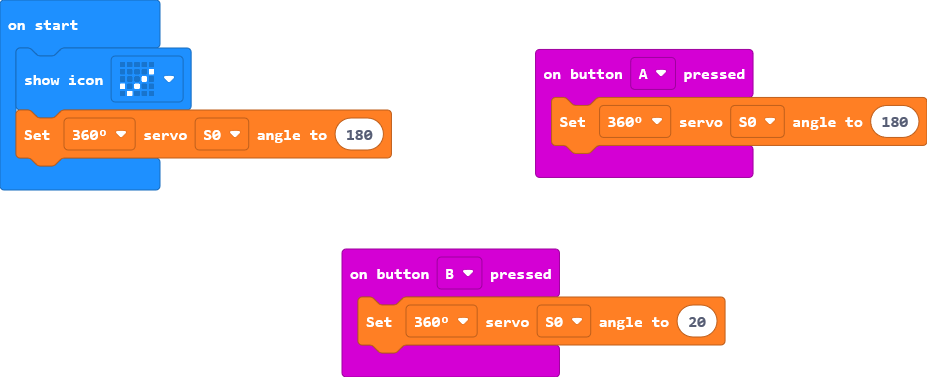
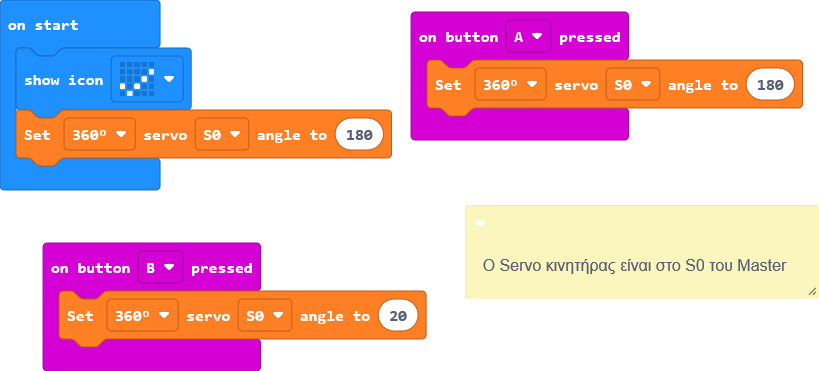
Update main.blocks, main.ts

diff --git a/main.ts b/main.ts
@@ -1,3 +1,6 @@
+/**
+ * Ο Servo κινητήρας είναι στο S0 του Master
+ */
 input.onButtonPressed(Button.A, function () {
     wuKong.setServoAngle(wuKong.ServoTypeList._360, wuKong.ServoList.S0, 180)
 })
